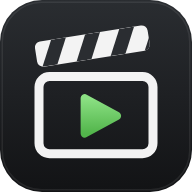
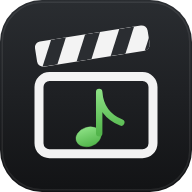
Icône de MouFlip : un clap de cinéma avec une note de musique
Claude-Session: https://claude.ai/code/session_01GgAAypGxpCx9CSD41rrXxx

Changed region(s): [[0.375, 0.4375, 0.6562, 0.7812]]

diff --git a/CHANGELOG.md b/CHANGELOG.md
@@ -2,7 +2,7 @@
 
 ## [0.1] - 2026-11-07
 Première version de MouFlip (clips vidéo K-pop pour Emby).
-- 🎬 **Icône à lui** : un clap de cinéma avec une flèche de lecture (c'était celle de MouFlopening, une note de musique). Remplacés : `icons/mouflip.svg`, les trois PNG (512, 192, 180) et le favicon 32 px ; description du manifeste corrigée.
+- 🎬 **Icône à lui** : un clap de cinéma avec une note de musique (c'était celle de MouFlopening). Remplacés : `icons/mouflip.svg`, les trois PNG (512, 192, 180) et le favicon 32 px ; description du manifeste corrigée.
 - 🎧 **Son studio automatique** (⚙ Réglages → Son studio → Automatique) : quand tu ranges un clip, son son studio est récupéré et **rangé tout seul** dans la Musique si tout est sûr (même artiste, même titre, durée à 15 s ou 10 % de celle du clip) ; sinon il reste « prêt à ranger » avec la raison. Une seule validation : celle du clip.
 - 🎧 **Son studio** : bouton « 🎧 Son studio » sur chaque clip et sur les clips cochés. Récupère le titre tel que le label l'a publié (YouTube Musique : description « Provided to YouTube by… » ou chaîne « Topic », jamais un live, un remix ni la bande-son du clip), règle le volume (89 dB, AACGain sans perte, MP3 comme M4A), met les étiquettes et range dans « Musique » (`Artiste/Album/Artiste - Album - NN - Titre`) sur confirmation, sans jamais remplacer un fichier. Format **M4A** (son AAC recopié sans perte) ou **MP3** au choix dans ⚙ Réglages ; « Ranger les N sons prêts » en lot.
 - 🎵 **Playlists Deezer** : colle l'adresse d'une playlist publique et une date ; seuls les morceaux ajoutés depuis cette date sont regardés (API publique de Deezer, sans clé). Chaque morceau est relié à son artiste (MusicBrainz) puis à son clip officiel : clips trouvés (toucher = ouvre le groupe avec ce clip coché), déjà dans la médiathèque, sans clip, artiste introuvable, versions alternatives ignorées. « ✅ Tout marquer comme vu » avance la date. Rien n'est téléchargé sans ton clic.
